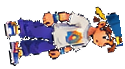
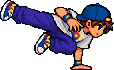
fix(art): replace rigid breakdance rotations with grounded keyframes

diff --git a/docs/FRAMEWORK_SNES_TWC/05_ENEMIGOS_ILUSTRADOS_Y_COMBATE.md b/docs/FRAMEWORK_SNES_TWC/05_ENEMIGOS_ILUSTRADOS_Y_COMBATE.md
@@ -1,0 +1,40 @@
+# Enemigos ilustrados y combate: método reutilizable
+
+Aplicable a juegos de fantasía, ciencia ficción u otra temática con estética SNES. Los personajes y las medidas concretas de Miren y Sara son ejemplos, no requisitos universales.
+
+## Contrato de arte
+Guardar por separado la referencia aprobada, la hoja fuente, los PNG de producción, sus hashes, el mapa de estados y la aprobación del resultado. No sustituir una referencia por dibujos procedimentales. Las ediciones que creen nuevas poses deben identificarse; una aprobación de identidad no aprueba automáticamente su animación.
+
+## Escala y apoyo
+Medir la altura opaca del reposo canónico. Escala = altura visible deseada / altura opaca original. Aplicar esa misma escala isotrópica a todas las poses, aunque una postura agachada ocupe menos altura. Anclar los apoyos al suelo. No usar la altura del lienzo transparente como altura corporal, ni estirar cada pose hasta llenar una celda.
+
+## Animación vinculada al comportamiento
+El movimiento debe activar marcha solo mientras la lógica realmente desplaza al personaje. Anticipación e impacto usan su propio reloj, no el tiempo de existencia del enemigo. Distribuir todos los fotogramas dentro de su ventana real. La derrota avanza y se limita al último fotograma: no vuelve a empezar. Un fotograma girado no equivale a una nueva pose anatómica de baile o caída.
+
+## Pruebas por capas
+1. Integridad: fuentes exactas, alfa, celdas completas, hashes protegidos, sin duplicados exactos.
+2. Lógica aislada: ventanas de ataque, recuperación, límites y distribución.
+3. Partida real: ejecutar ticker, daño y colisiones; probar protagonistas/proyectiles, interrupción, evasión y derrota.
+4. Render real: cargar exactamente los fondos y sprites activos; capturar motor y revisar a tamaño de juego.
+5. Aprobación humana: comparar referencia, recurso integrado y resultado. No convertir tests verdes en aprobación estética.
+6. Dispositivo: una captura Flutter de escritorio no verifica rendimiento o GPU Android.
+
+## Errores confirmados en este caso
+- Transparencia de atlas contada como altura corporal: enemigos demasiado pequeños. Corregido con altura opaca canónica.
+- Temporizador general en ataques: omitía fotogramas y desordenaba anticipación. Corregido con reloj de fase.
+- Rey mostraba marcha fuera del rango de movimiento: igualar condición visual y física.
+- Poses del bailarín eran rotaciones del reposo: necesitan apoyos dibujados, no trucos de giro.
+- Generación suplementaria con miembros adicionales: descartada, nunca integrada.
+- Pruebas visuales sin fondos completos: cargar los recursos de la configuración real, incluidas alternativas de opciones gráficas.
+- Cuota de artefactos Actions agotada: guardar pruebas compactas en Git; mantener una paleta GIF común evita repetir el fondo completo en cada fotograma.
+- I/O de capturas en reloj simulado: rasterización y escritura deben ejecutarse dentro de tester.runAsync.
+
+## Referencias ejecutables
+- tools/build_approved_enemy_art.py y tools/install_illustrated_enemy_candidates.py
+- tools/verify_enemy_art.py y qa/enemy_art_20261031/locked_asset_hashes.json
+- test/enemy_gameplay_integration_test.dart
+- test/qa_new_enemy_real_render_test.dart y test/qa_four_classic_enemy_render_test.dart
+- .github/workflows/enemy-qa-only.yml
+- qa/enemy_verified_render/
+
+Los GIF de este expediente son secuencias de estados controlados renderizados por StagePainter; no son grabaciones de una partida ni imágenes conceptuales.

diff --git a/qa/enemy_art_20261031/BREAKDANCER_REVISION.md b/qa/enemy_art_20261031/BREAKDANCER_REVISION.md
@@ -1,0 +1,9 @@
+# Bailarín — tres poses intermedias rehechas, 2026-11-01
+
+Inspección de los PNG originales 0..7: 1 y 2 son inclinaciones casi rígidas del reposo y 3 un cuerpo horizontal sin apoyo claro. Se conservan 0 (reposo), 4 (derrota completa) y 5 (impacto). Se redibujan únicamente 1 (crouch), 2 (entrada con palma apoyada) y 3 (freeze con apoyo). Referencias exactas: breakdancer_0.png y breakdancer_5.png. Herramienta imagegen integrada, preservando gorra azul/amarilla, rostro, camiseta blanca con emblema, pantalón morado y zapatillas. Prompt: tres keyframes anatómicos apoyados, mismo diseño/escala, sin giros rígidos ni figuras duplicadas; transparencia real.
+
+Fuente generada: exec-4907846a-359d-49c7-a668-fca1728f07b6.png. Extracción: tres componentes alfa>=128 (>1000 píxeles), orden X; alfa binaria sin pintar RGB; factor común 0.15, vecino próximo. Salidas 76×77, 92×76 y 114×70. Motor conserva escala de píxel de reposo (115px opacos →126 unidades). No aumentar cada postura agachada hasta altura de pie.
+
+Los tres PNG están en assets/images/enemies y sus SHA256 se añaden al manifiesto protegido. Se mantienen lógica, numeración y selección de estados. La siguiente QA comprueba motor real y ambas protagonistas. Esto es corrección técnica/artística candidata, no aprobación final del usuario.
+
+Última QA previa a estos tres PNG: 41316619261 SUCCESS, incluye los veinte casos de combate con evasión y correcciones de toro/rey. Los GIF nuevos usan una paleta compartida para reducir tamaño sin repetir el fondo completo por fotograma; no se modifica ningún sprite de producción para comprimir evidencias.

diff --git a/docs/FRAMEWORK_SNES_TWC/README.md b/docs/FRAMEWORK_SNES_TWC/README.md
@@ -57,3 +57,5 @@ En cada fase el proceso debe fallar cerrado: si no hay evidencia, el estado es *
 
 **No convertir documentación específica de este videojuego en una garantía genérica de calidad.**
 - [Transferencia binaria GitHub](TRANSFERENCIA_BINARIA_GITHUB.md): subida exacta de PNG grandes a la rama con SHA verificado, independiente de Actions.
+
+- [05 — Enemigos ilustrados y combate](05_ENEMIGOS_ILUSTRADOS_Y_COMBATE.md): escala opaca, relojes de animación, integridad, ticker real y evidencia visual.
